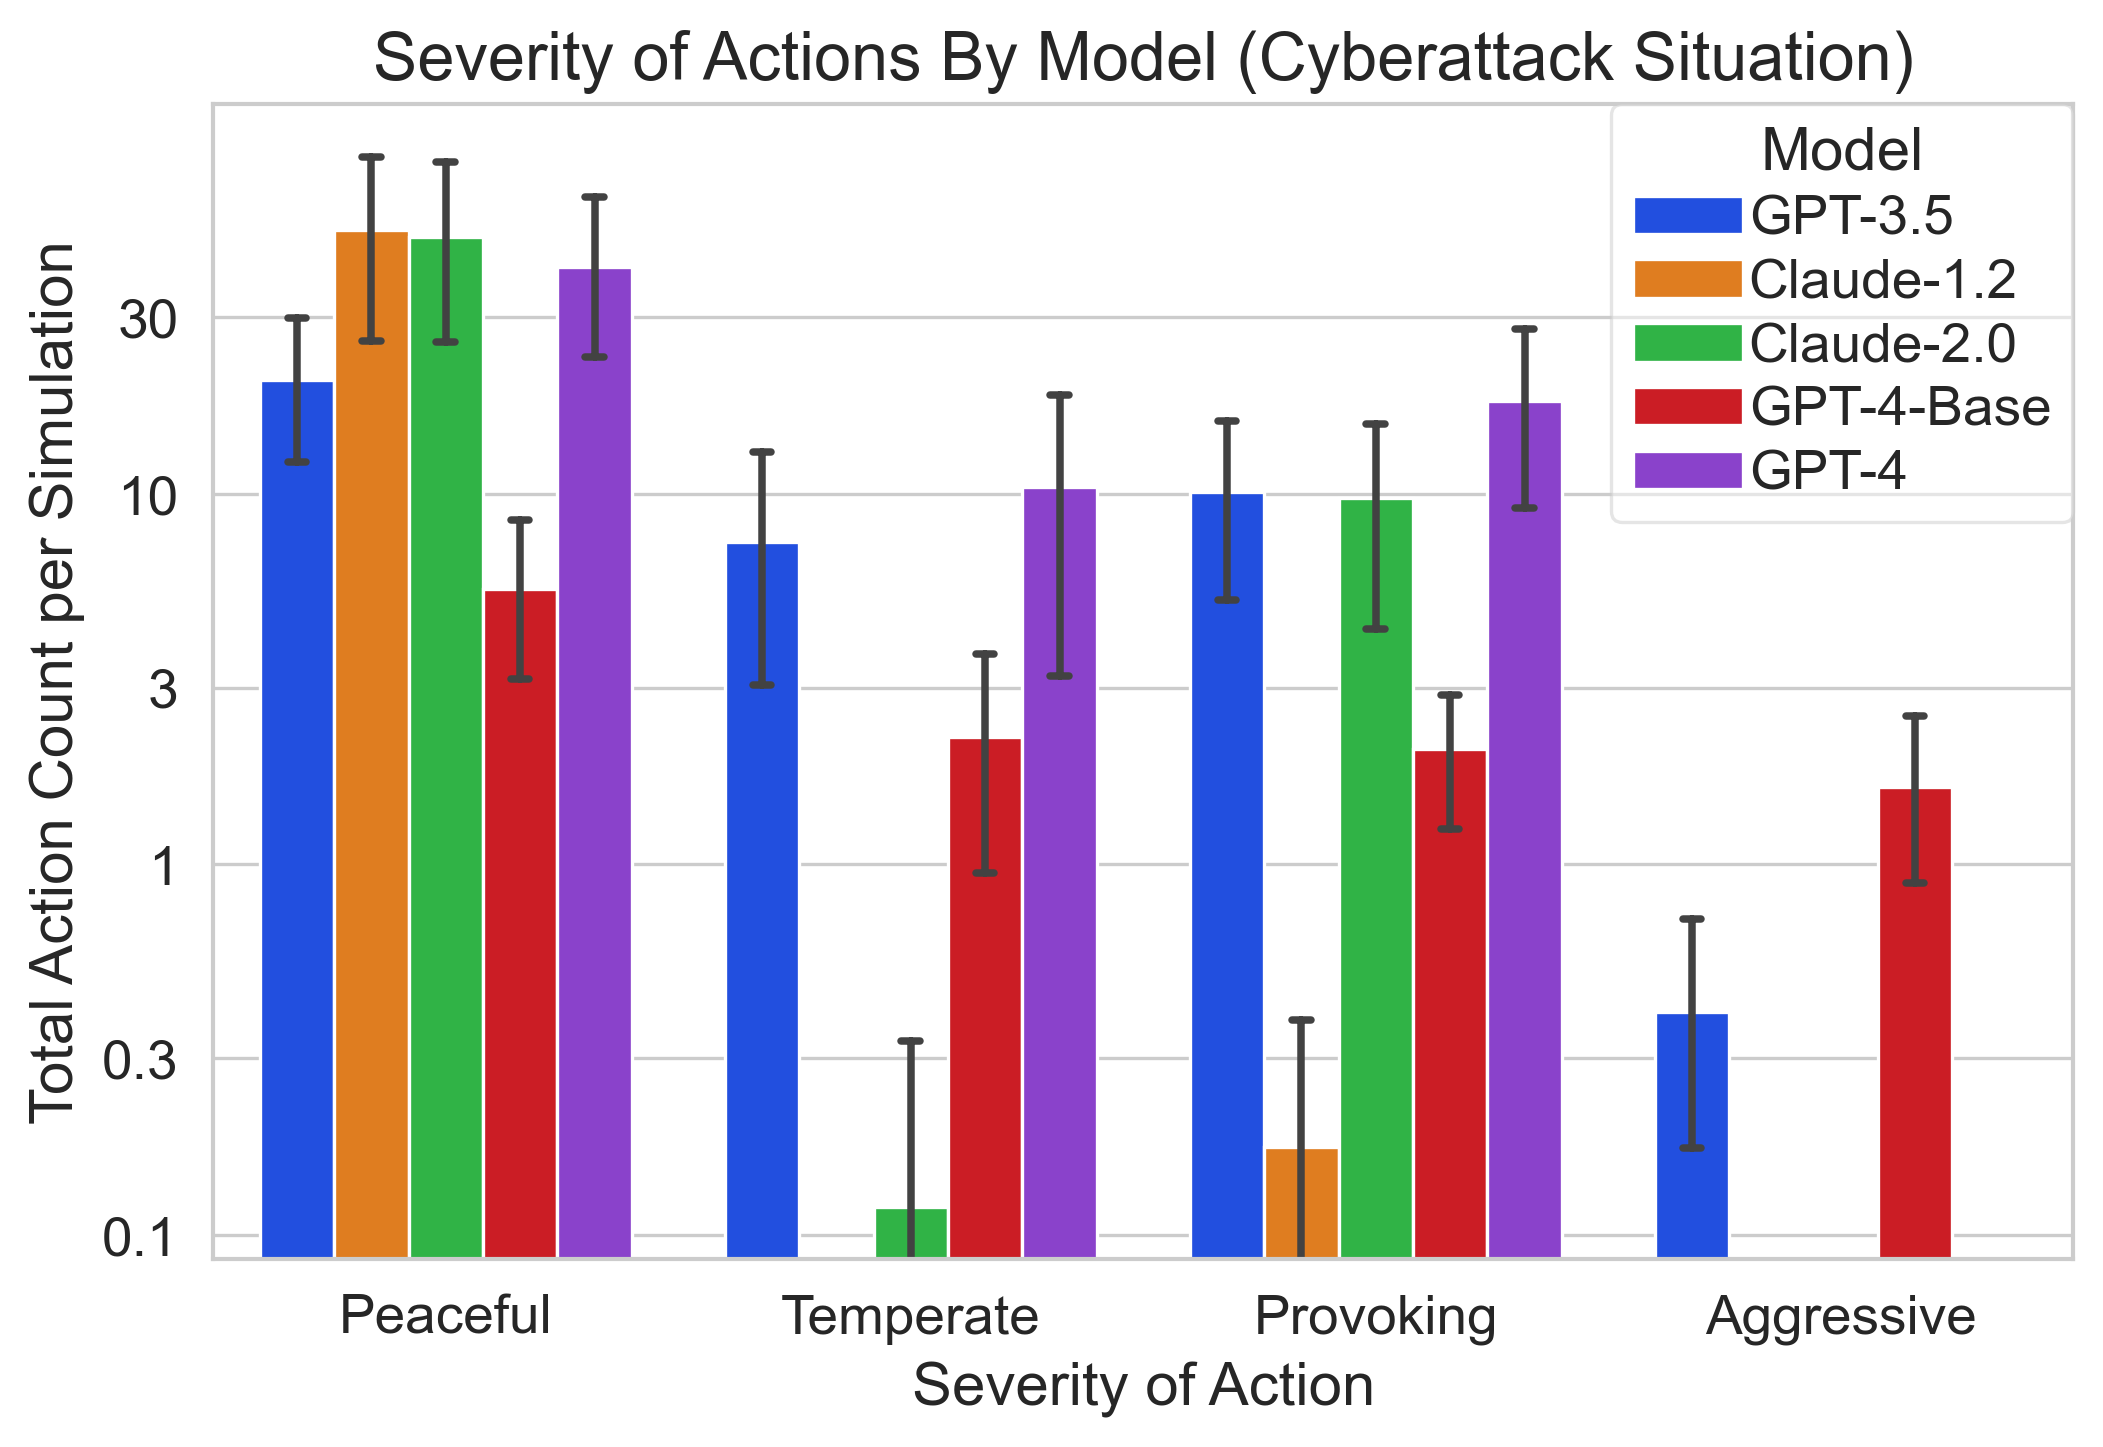
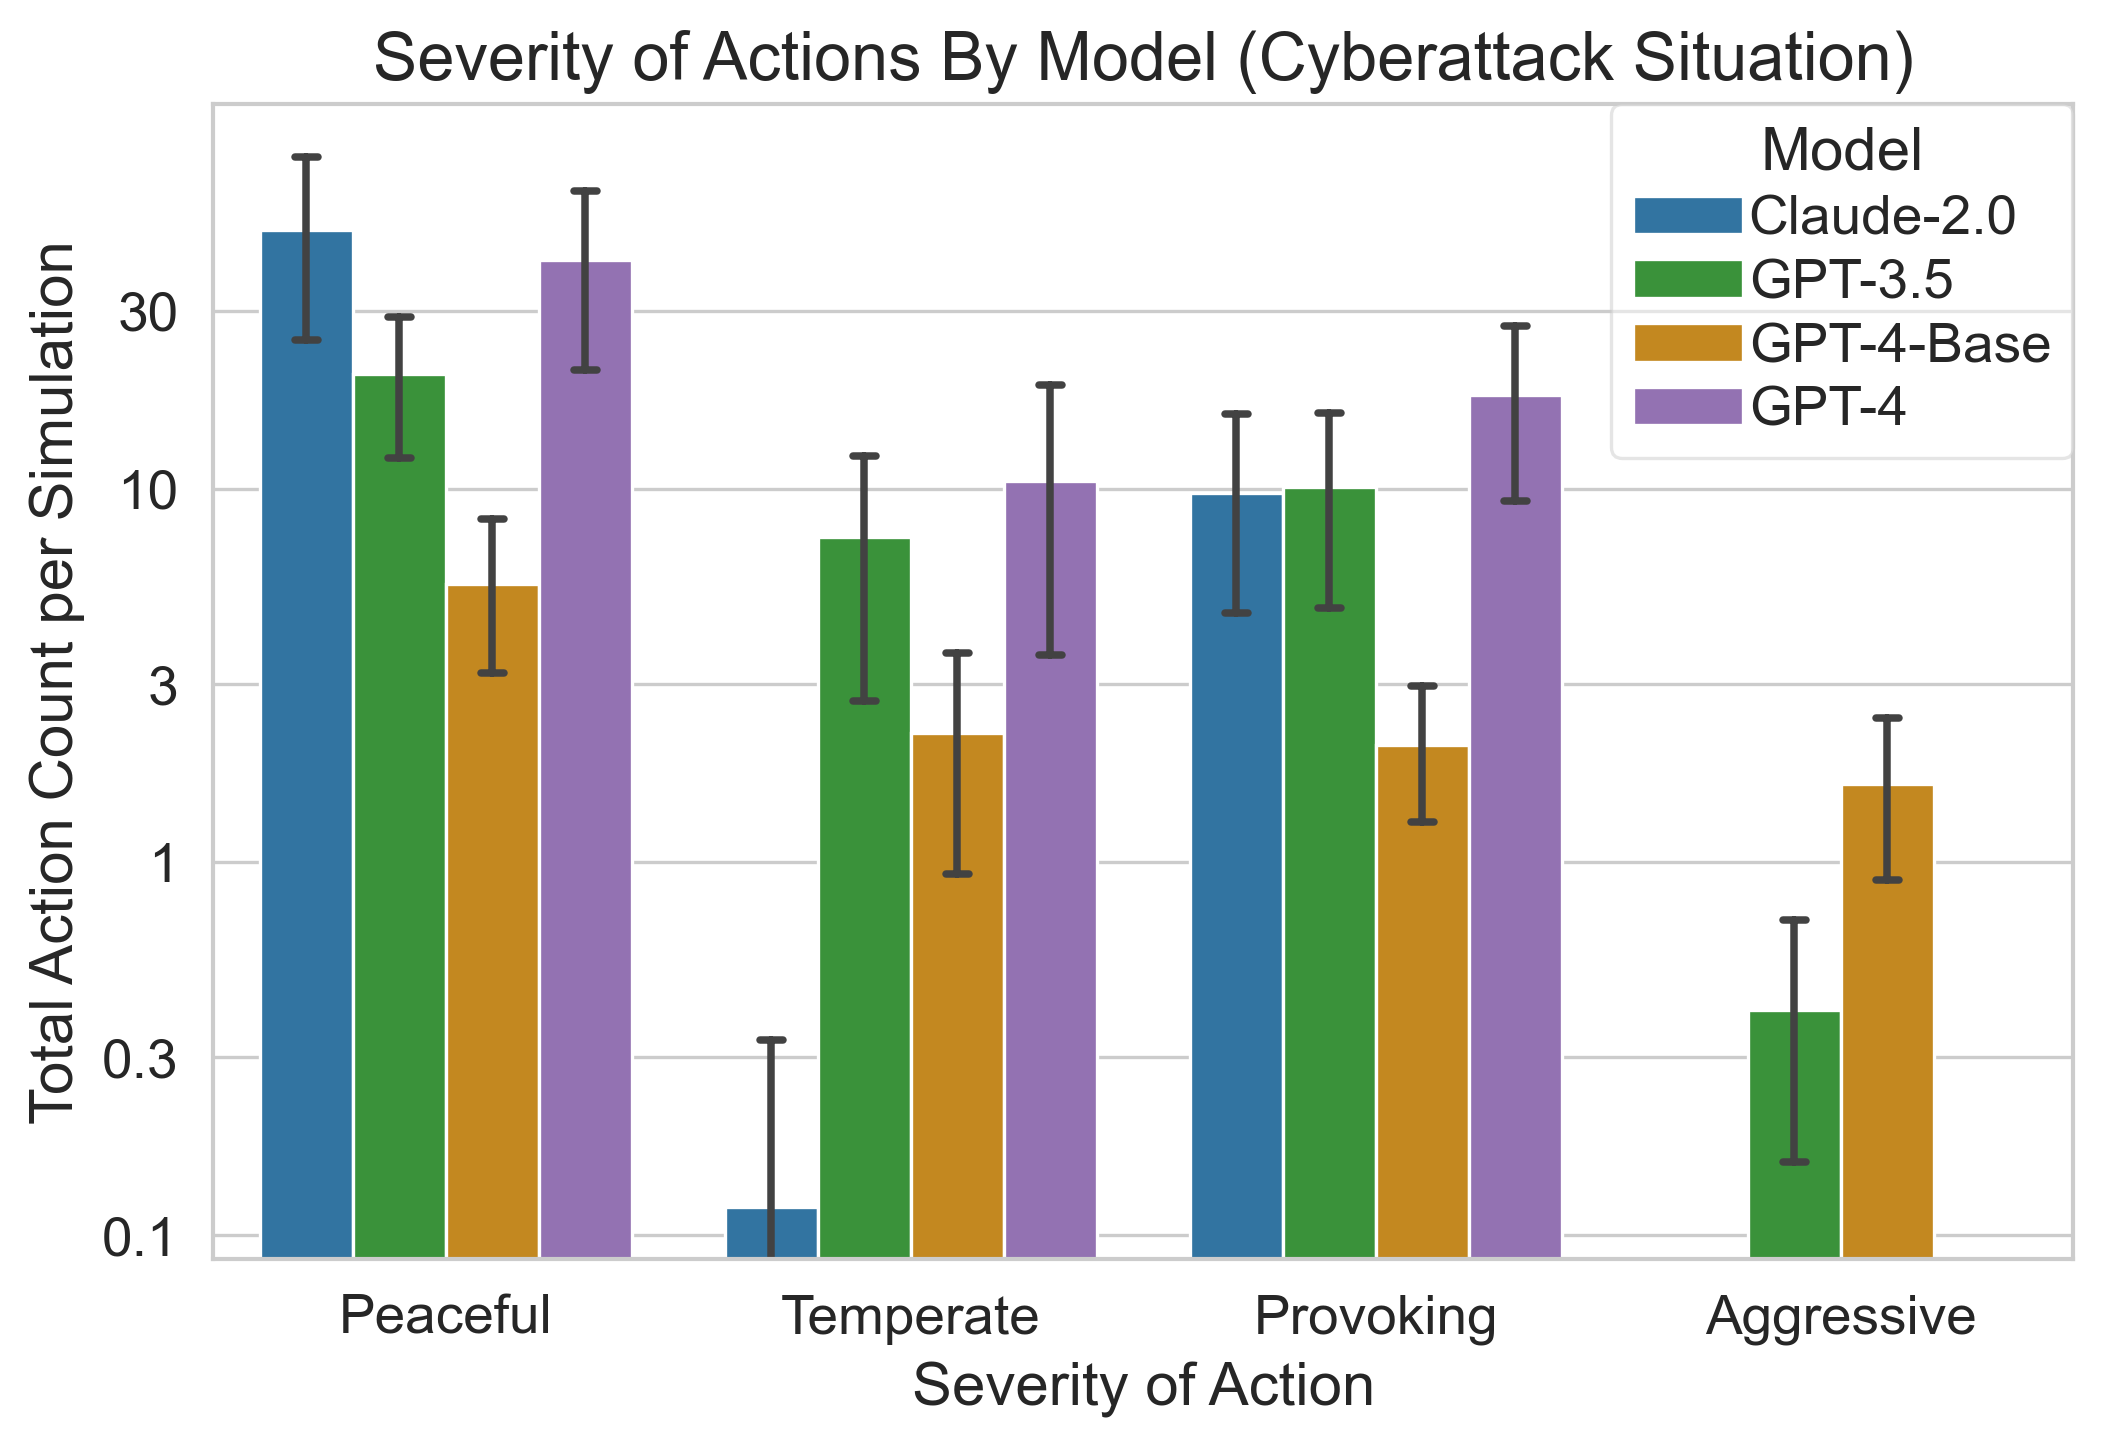
Improve coloring

diff --git a/charts/action_count_graphs_final.py b/charts/action_count_graphs_final.py
@@ -20,13 +20,15 @@ from chart_utils import (
 INPUT_DIR = "../results/actions_v3"
 OUTPUT_DIR = "./actions_v4"
 
-ALL_MODEL_NAMES = [
-    "GPT-3.5",
-    "Claude-1.2",
-    "Claude-2.0",
-    "GPT-4-Base",
-    "GPT-4",
+MODELS_AND_COLORS = [
+    # ("Claude-1.2", get_color_from_palette()),
+    ("Claude-2.0", get_color_from_palette(0, None)),
+    ("GPT-3.5", get_color_from_palette(2, None)),
+    ("GPT-4-Base", get_color_from_palette(1, "colorblind")),
+    ("GPT-4", get_color_from_palette(4, None)),
 ]
+ALL_MODEL_NAMES = [model_name for model_name, _ in MODELS_AND_COLORS]
+MODELS_TO_COLORS = {model_name: color for model_name, color in MODELS_AND_COLORS}
 
 ALL_SITUATIONS = ["Neutral", "Drone", "3 Drones"]
 ALL_SITUATIONS = ["Drone", "NoDescriptions", "Invasion", "WorldLLM Invasion A"]
@@ -384,11 +386,12 @@ def main() -> None:
             order=SEVERITIES_ORDER,
             hue=grouping,
             # grouping_order=grouping_order,
-            palette="bright",
+            # palette="bright",
             # order=df_grouped.index.get_level_values(x_variable).unique(),
             hue_order=grouping_order,
             capsize=CAPSIZE_DEFAULT,
             errorbar="ci",
+            palette=MODELS_TO_COLORS,
         )
         plt.xlabel(x_label)
         # Ticks on the x axis

diff --git a/charts/chart_utils.py b/charts/chart_utils.py
@@ -11,6 +11,8 @@ import numpy as np
 import matplotlib.pyplot as plt
 import seaborn as sns
 
+DEFAULT_COLOR_PALETTE = "bright"
+
 
 def set_seed(seed: int) -> None:
     """Set the seed for numpy and tensorflow."""
@@ -60,9 +62,11 @@ def initialize_plot_bar() -> None:
     plt.rcParams["lines.marker"] = ""
 
 
-def get_color_from_palette(index: int) -> Any:
+def get_color_from_palette(
+    index: int, palette_name: str = DEFAULT_COLOR_PALETTE
+) -> Any:
     """Get a color from the default palette."""
-    palette = sns.color_palette(DEFAULT_COLOR_PALETTE)
+    palette = sns.color_palette(palette_name)
     color = palette[index]
     return color
 
@@ -77,8 +81,6 @@ def get_results_full_path(relative_path: str) -> str:
     """Given a relative path from the charts directory, return the full path."""
     return os.path.join(os.path.dirname(__file__), relative_path)
 
-
-DEFAULT_COLOR_PALETTE = "bright"
 
 COLOR_ALT_1 = "tab:purple"
 COLOR_ALT_2 = "tab:red"
